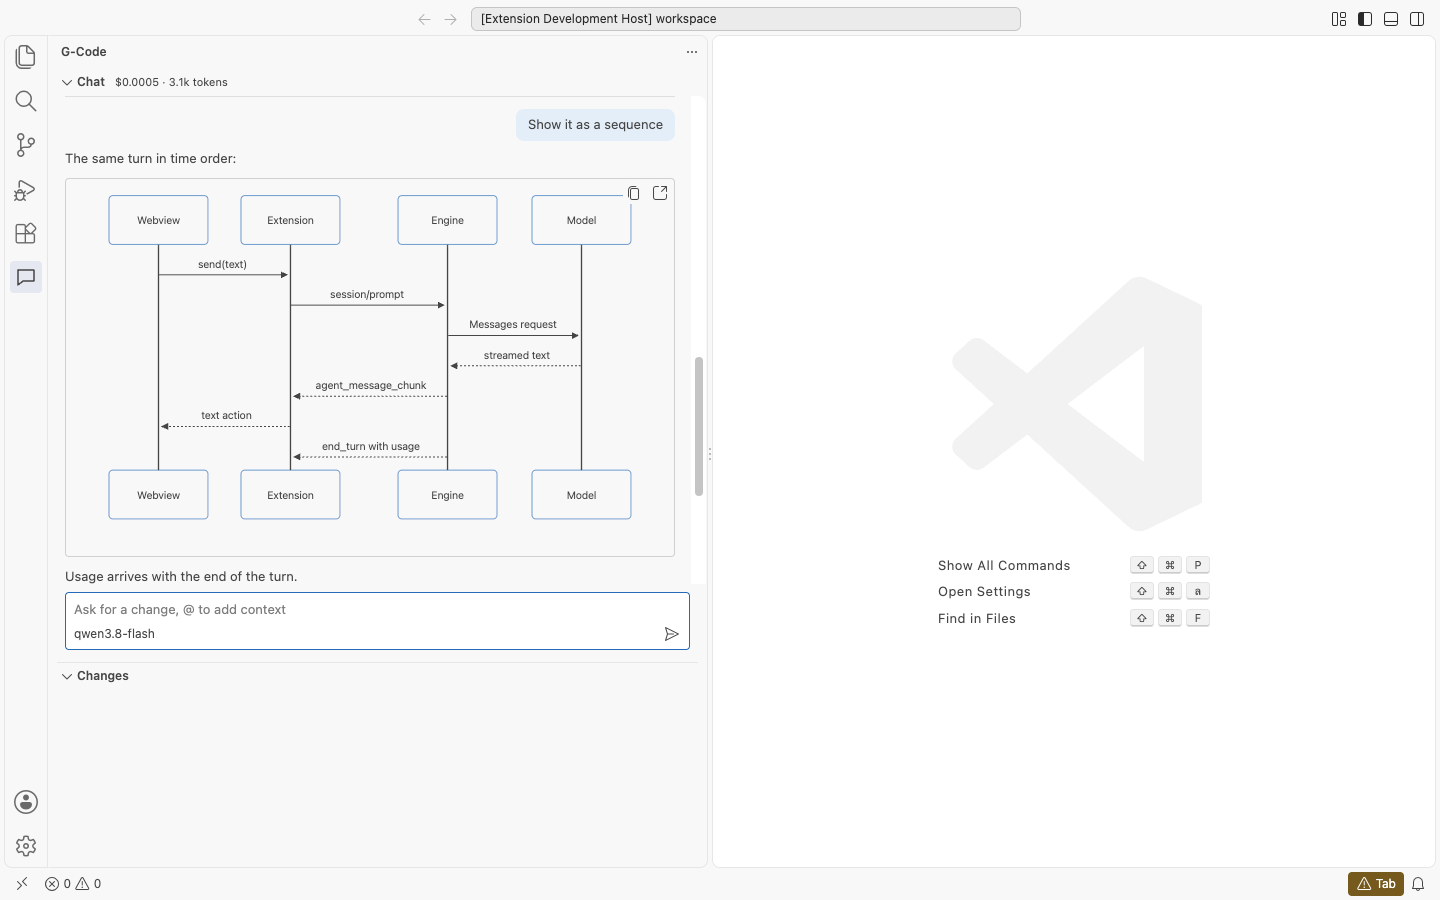
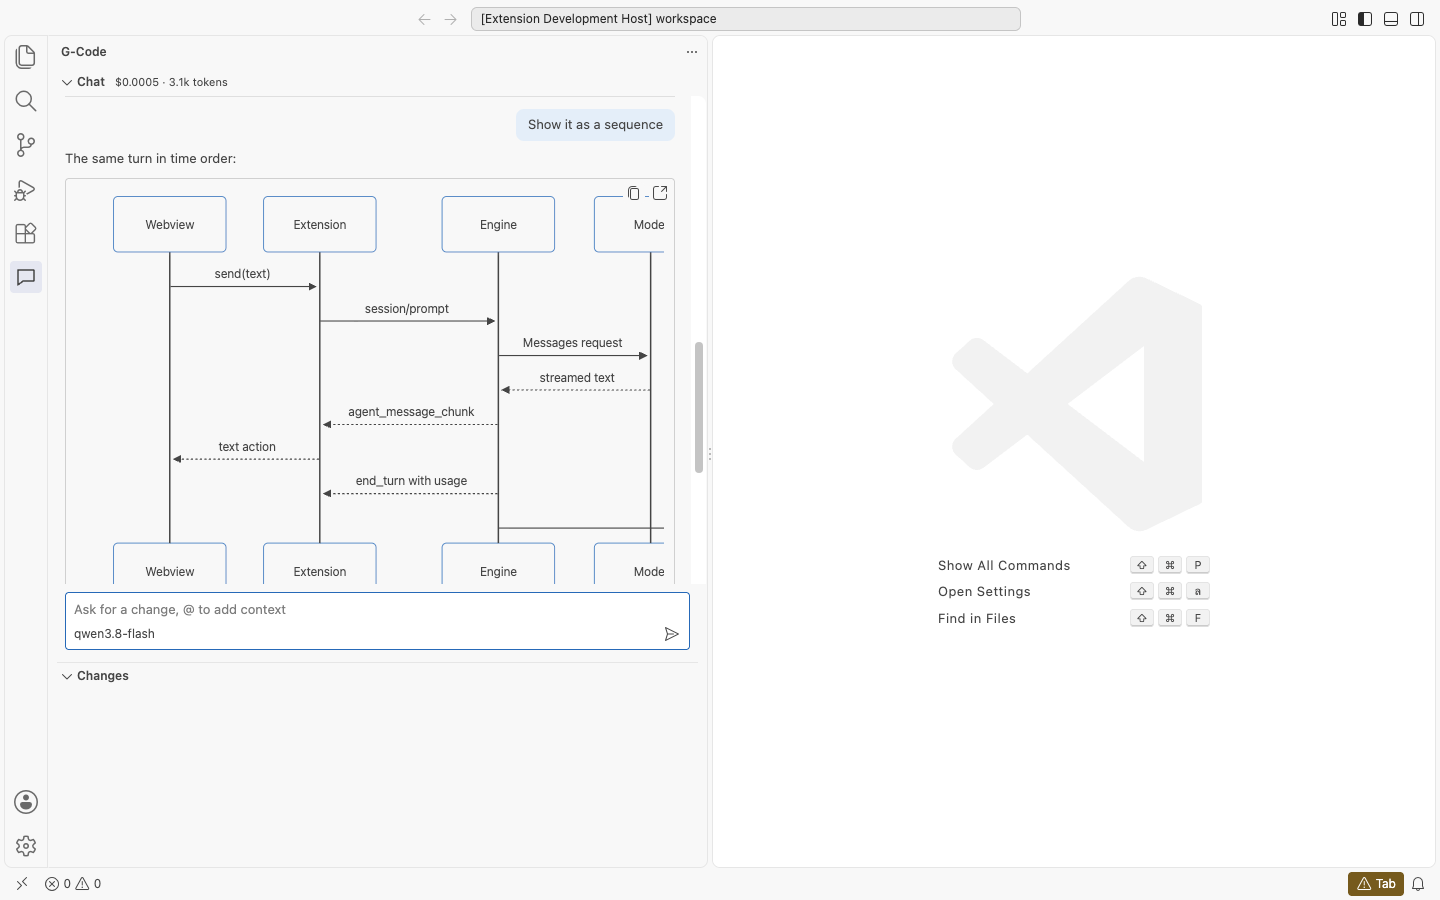
Keep wide diagrams legible by scrolling past three-quarter scale
The live smoke's sequence diagram shrank to unreadable text in the panel.
A diagram now shrinks to at most 75% of its natural size and the canvas
scrolls sideways past that; the editor tab still fits or zooms freely.

diff --git a/packages/extension/test/suite/diagram.ts b/packages/extension/test/suite/diagram.ts
@@ -124,8 +124,11 @@ export async function run(): Promise<void> {
       messages: [...svg.querySelectorAll('.messageText')].map((t) => t.textContent.trim()),
     };
   })()`);
-  check(['Webview', 'Extension', 'Engine', 'Model'].every((a) => sequence.actors.includes(a)), 'the sequence diagram shows every participant', sequence.actors);
-  check(sequence.messages.length === 7 && sequence.messages[0] === 'send(text)', 'the sequence diagram shows every message in order', sequence.messages);
+  check(['Webview', 'Extension', 'Engine', 'Model', 'Session log'].every((a) => sequence.actors.includes(a)), 'the sequence diagram shows every participant', sequence.actors);
+  check(sequence.messages.length === 8 && sequence.messages[0] === 'send(text)', 'the sequence diagram shows every message in order', sequence.messages);
+
+  const scales = await panel<number[]>(`[...doc.querySelectorAll('.diagram[data-state="rendered"] svg')].map((s) => s.getBoundingClientRect().width / s.viewBox.baseVal.width)`);
+  check(scales.every((scale) => scale >= 0.74), 'no diagram shrinks below three quarters of its size', scales);
 
   await send(PROMPTS.broken, 3);
   await waitFor('the broken diagram to fail', async () => (await count('.diagram[data-state="failed"]')) === 1);

diff --git a/packages/extension/src/chat/webview.css b/packages/extension/src/chat/webview.css
@@ -446,7 +446,8 @@ button {
 
 .diagram-canvas {
   display: flex;
-  justify-content: center;
+  justify-content: safe center;
+  overflow-x: auto;
 }
 
 /* Mermaid gives the drawing its natural width as a max-width; narrower panels scale it down. */
@@ -538,9 +539,14 @@ body.diagram-tab {
   height: 100%;
 }
 
-/* The tab sizes the drawing itself, past the natural width mermaid sets inline. */
+/* The tab sizes the drawing itself, past the natural width mermaid sets inline and the panel's smallest scale. */
 .diagram-stage .diagram-canvas svg {
+  min-width: 0 !important;
   max-width: none !important;
+}
+
+.diagram-stage .diagram-canvas {
+  overflow: visible;
 }
 
 .diagram-stage:not([data-zoom='fit']) .diagram-canvas {

diff --git a/packages/extension/src/chat/diagram-view.ts b/packages/extension/src/chat/diagram-view.ts
@@ -81,6 +81,8 @@ function draw(source: string): void {
 }
 
 const SVG_NS = 'http://www.w3.org/2000/svg';
+/** A wide diagram shrinks to fit the panel only this far, so its labels stay legible; past it the canvas scrolls. */
+const MIN_SCALE = 0.75;
 const STYLE = /<style[^>]*>([\s\S]*?)<\/style>/;
 
 /**
@@ -100,6 +102,8 @@ function svgOf(state: Extract<DiagramState, { status: 'rendered' }>): SVGSVGElem
   const copy = svg.cloneNode(true) as SVGSVGElement;
   // A clone does not keep its original's nonce.
   copy.querySelector('style')!.nonce = nonce;
+  const width = copy.viewBox.baseVal?.width;
+  if (width) copy.style.minWidth = `${Math.round(width * MIN_SCALE)}px`;
   return copy;
 }
 

diff --git a/packages/extension/test/suite/diagram-fixture.ts b/packages/extension/test/suite/diagram-fixture.ts
@@ -19,6 +19,8 @@ export const SEQUENCE = [
   '  participant X as Extension',
   '  participant E as Engine',
   '  participant M as Model',
+  '  participant T as Tools in the sandbox',
+  '  participant L as Session log',
   '  W->>X: send(text)',
   '  X->>E: session/prompt',
   '  E->>M: Messages request',
@@ -26,6 +28,7 @@ export const SEQUENCE = [
   '  E-->>X: agent_message_chunk',
   '  X-->>W: text action',
   '  E-->>X: end_turn with usage',
+  '  E->>L: append the turn events',
 ].join('\n');
 
 /** The decision node never closes its brace, so mermaid cannot parse it. */
